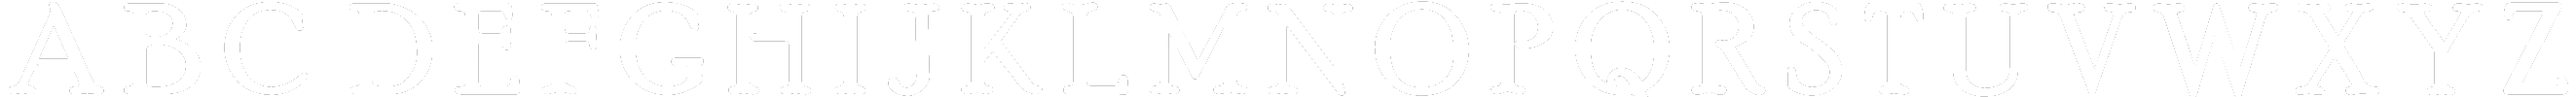
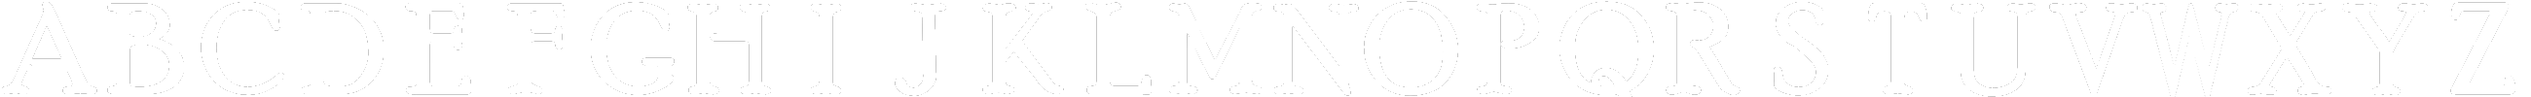
Updated alphabet_white to be equidistant widths

diff --git a/src/builders/Sprite.java b/src/builders/Sprite.java
@@ -125,14 +125,10 @@ public class Sprite {
 		glColor3f(1,1,1);
 		glBegin(GL_QUADS);
 		{
-			glTexCoord2f(0, 0);
-			glVertex2f(0, 0);
-			glTexCoord2f(0, tex.getHeight());
-			glVertex2f(0, yRes);
-			glTexCoord2f(tex.getWidth(), tex.getHeight());
-			glVertex2f(xRes,yRes);
-			glTexCoord2f(tex.getWidth(), 0);
-			glVertex2f(xRes,0);
+			glTexCoord2f(0, 0);                 			 glVertex2f(0, 0);
+			glTexCoord2f(0, tex.getHeight());   			 glVertex2f(0, yRes);
+			glTexCoord2f(tex.getWidth(), tex.getHeight()); 	 glVertex2f(xRes,yRes);
+			glTexCoord2f(tex.getWidth(), 0);				 glVertex2f(xRes,0);
 		}
 		glEnd();
 
